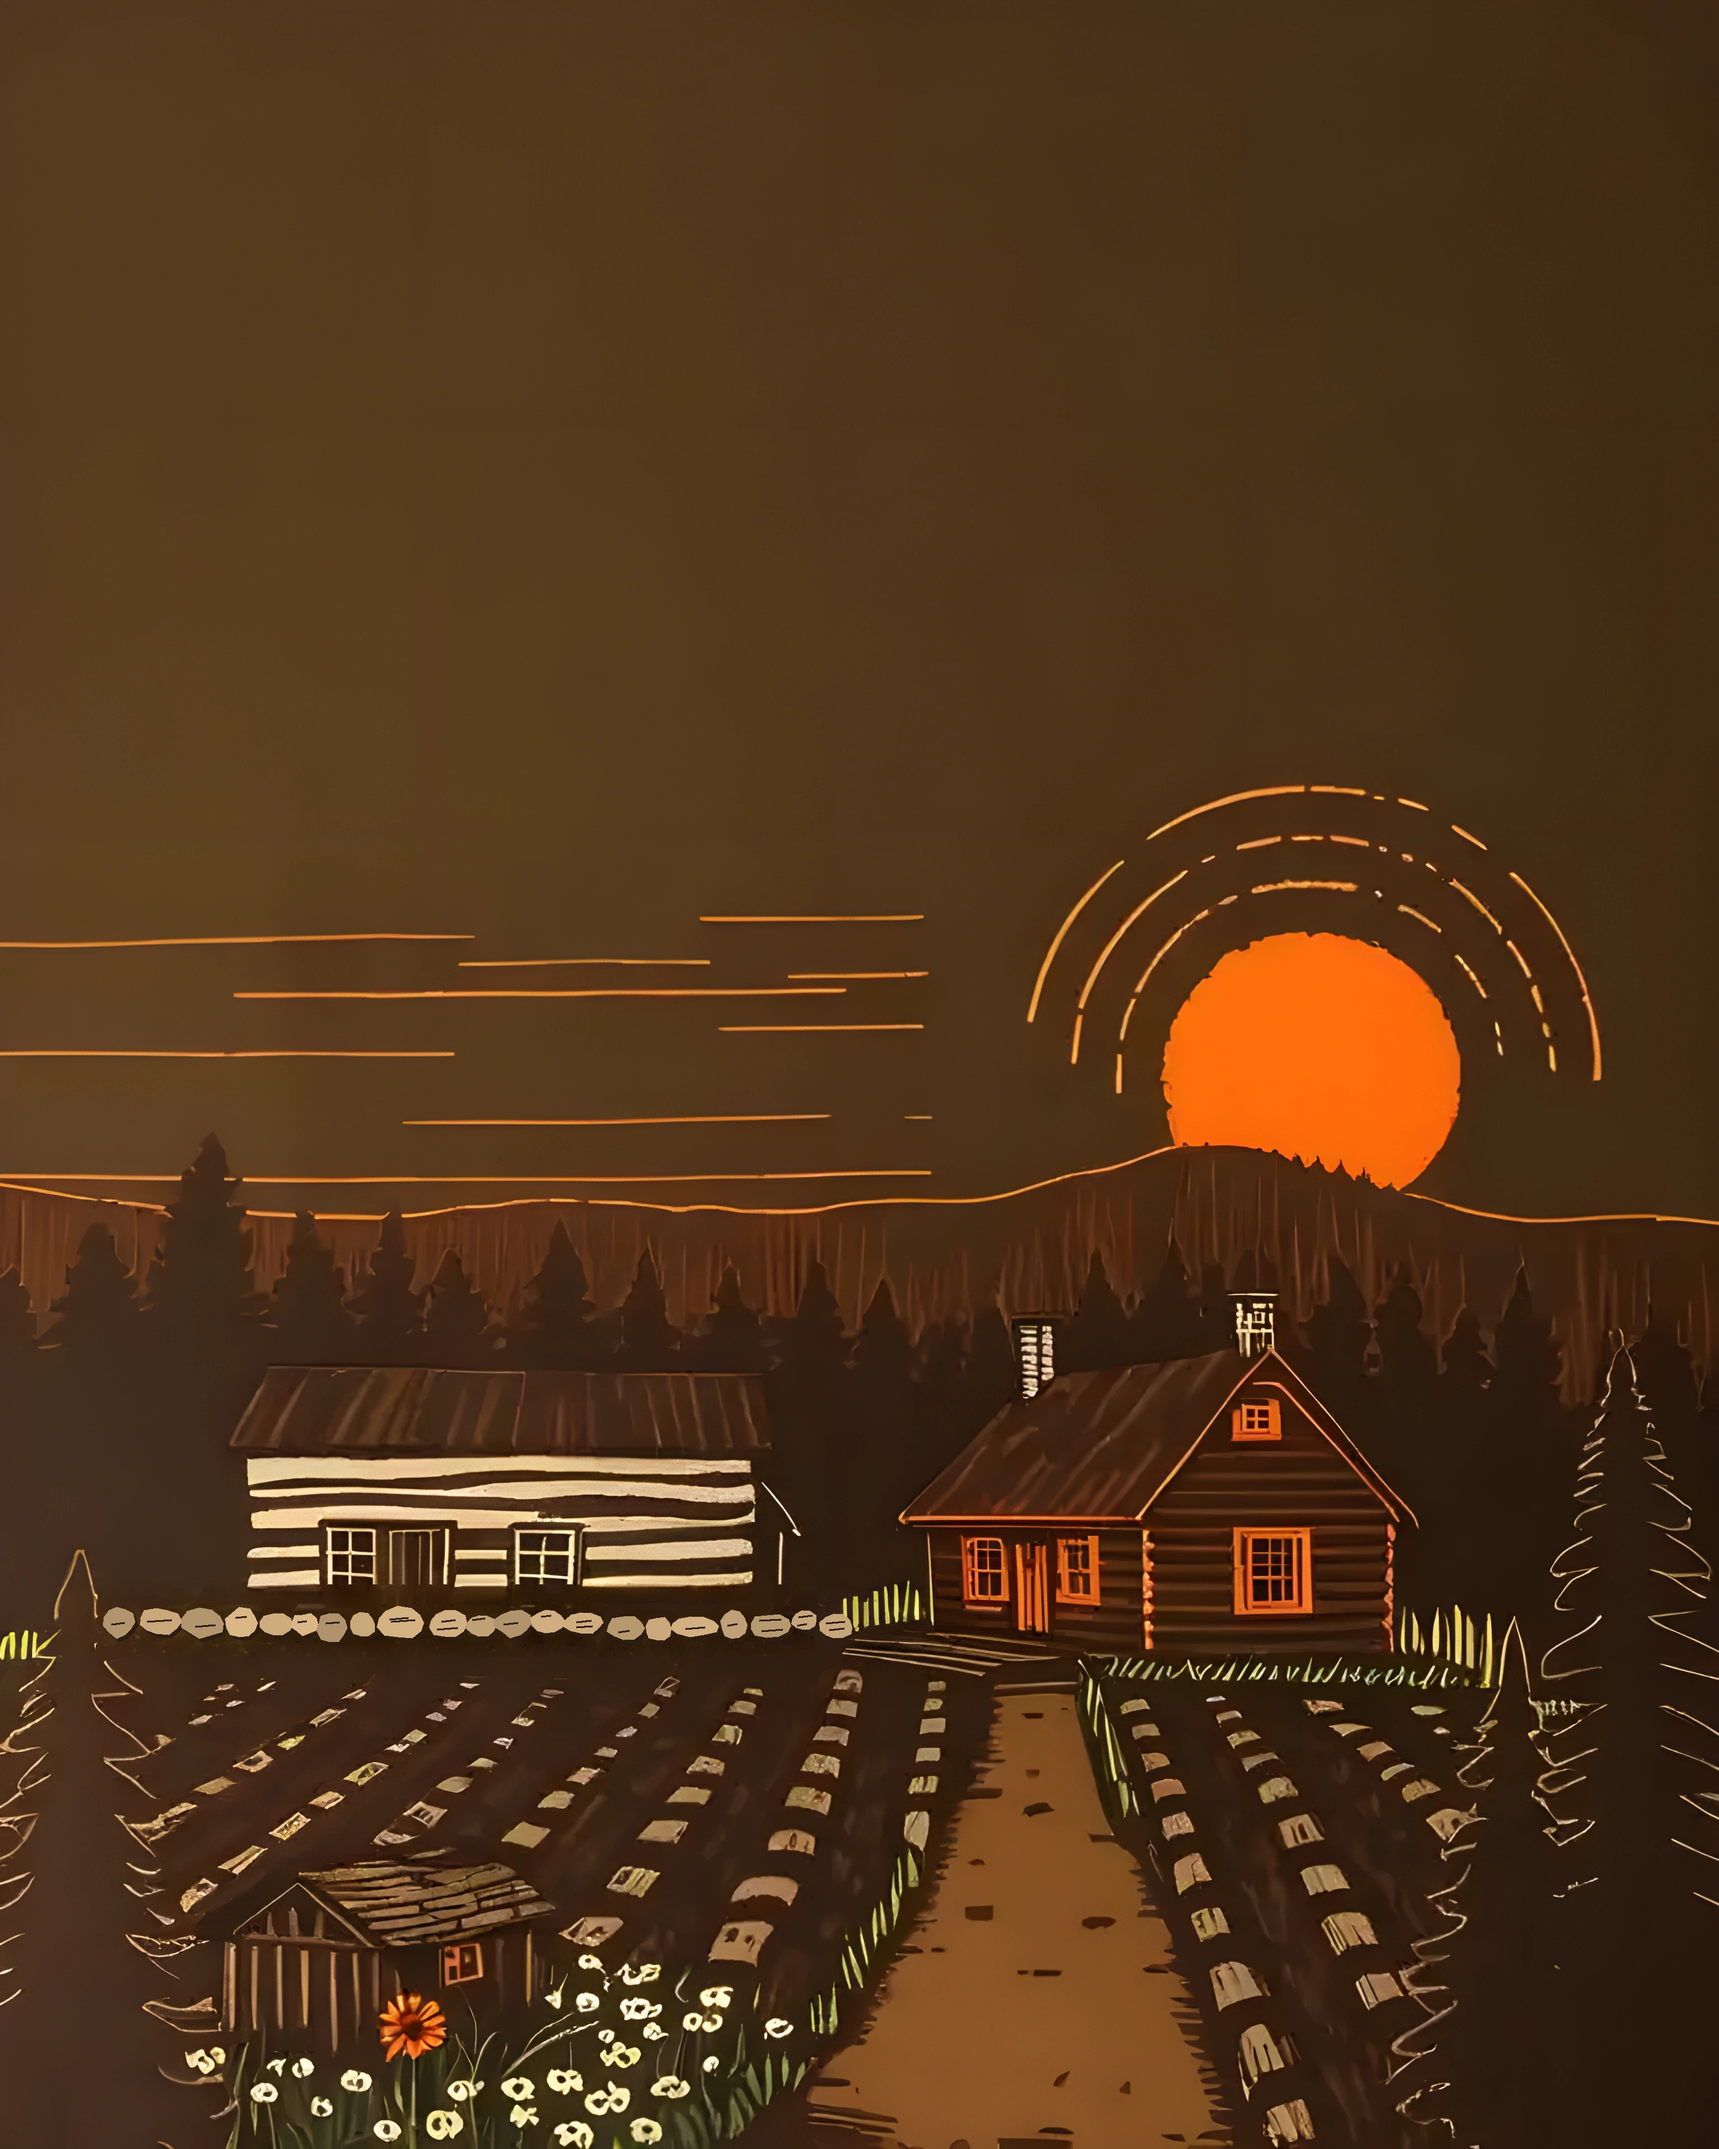
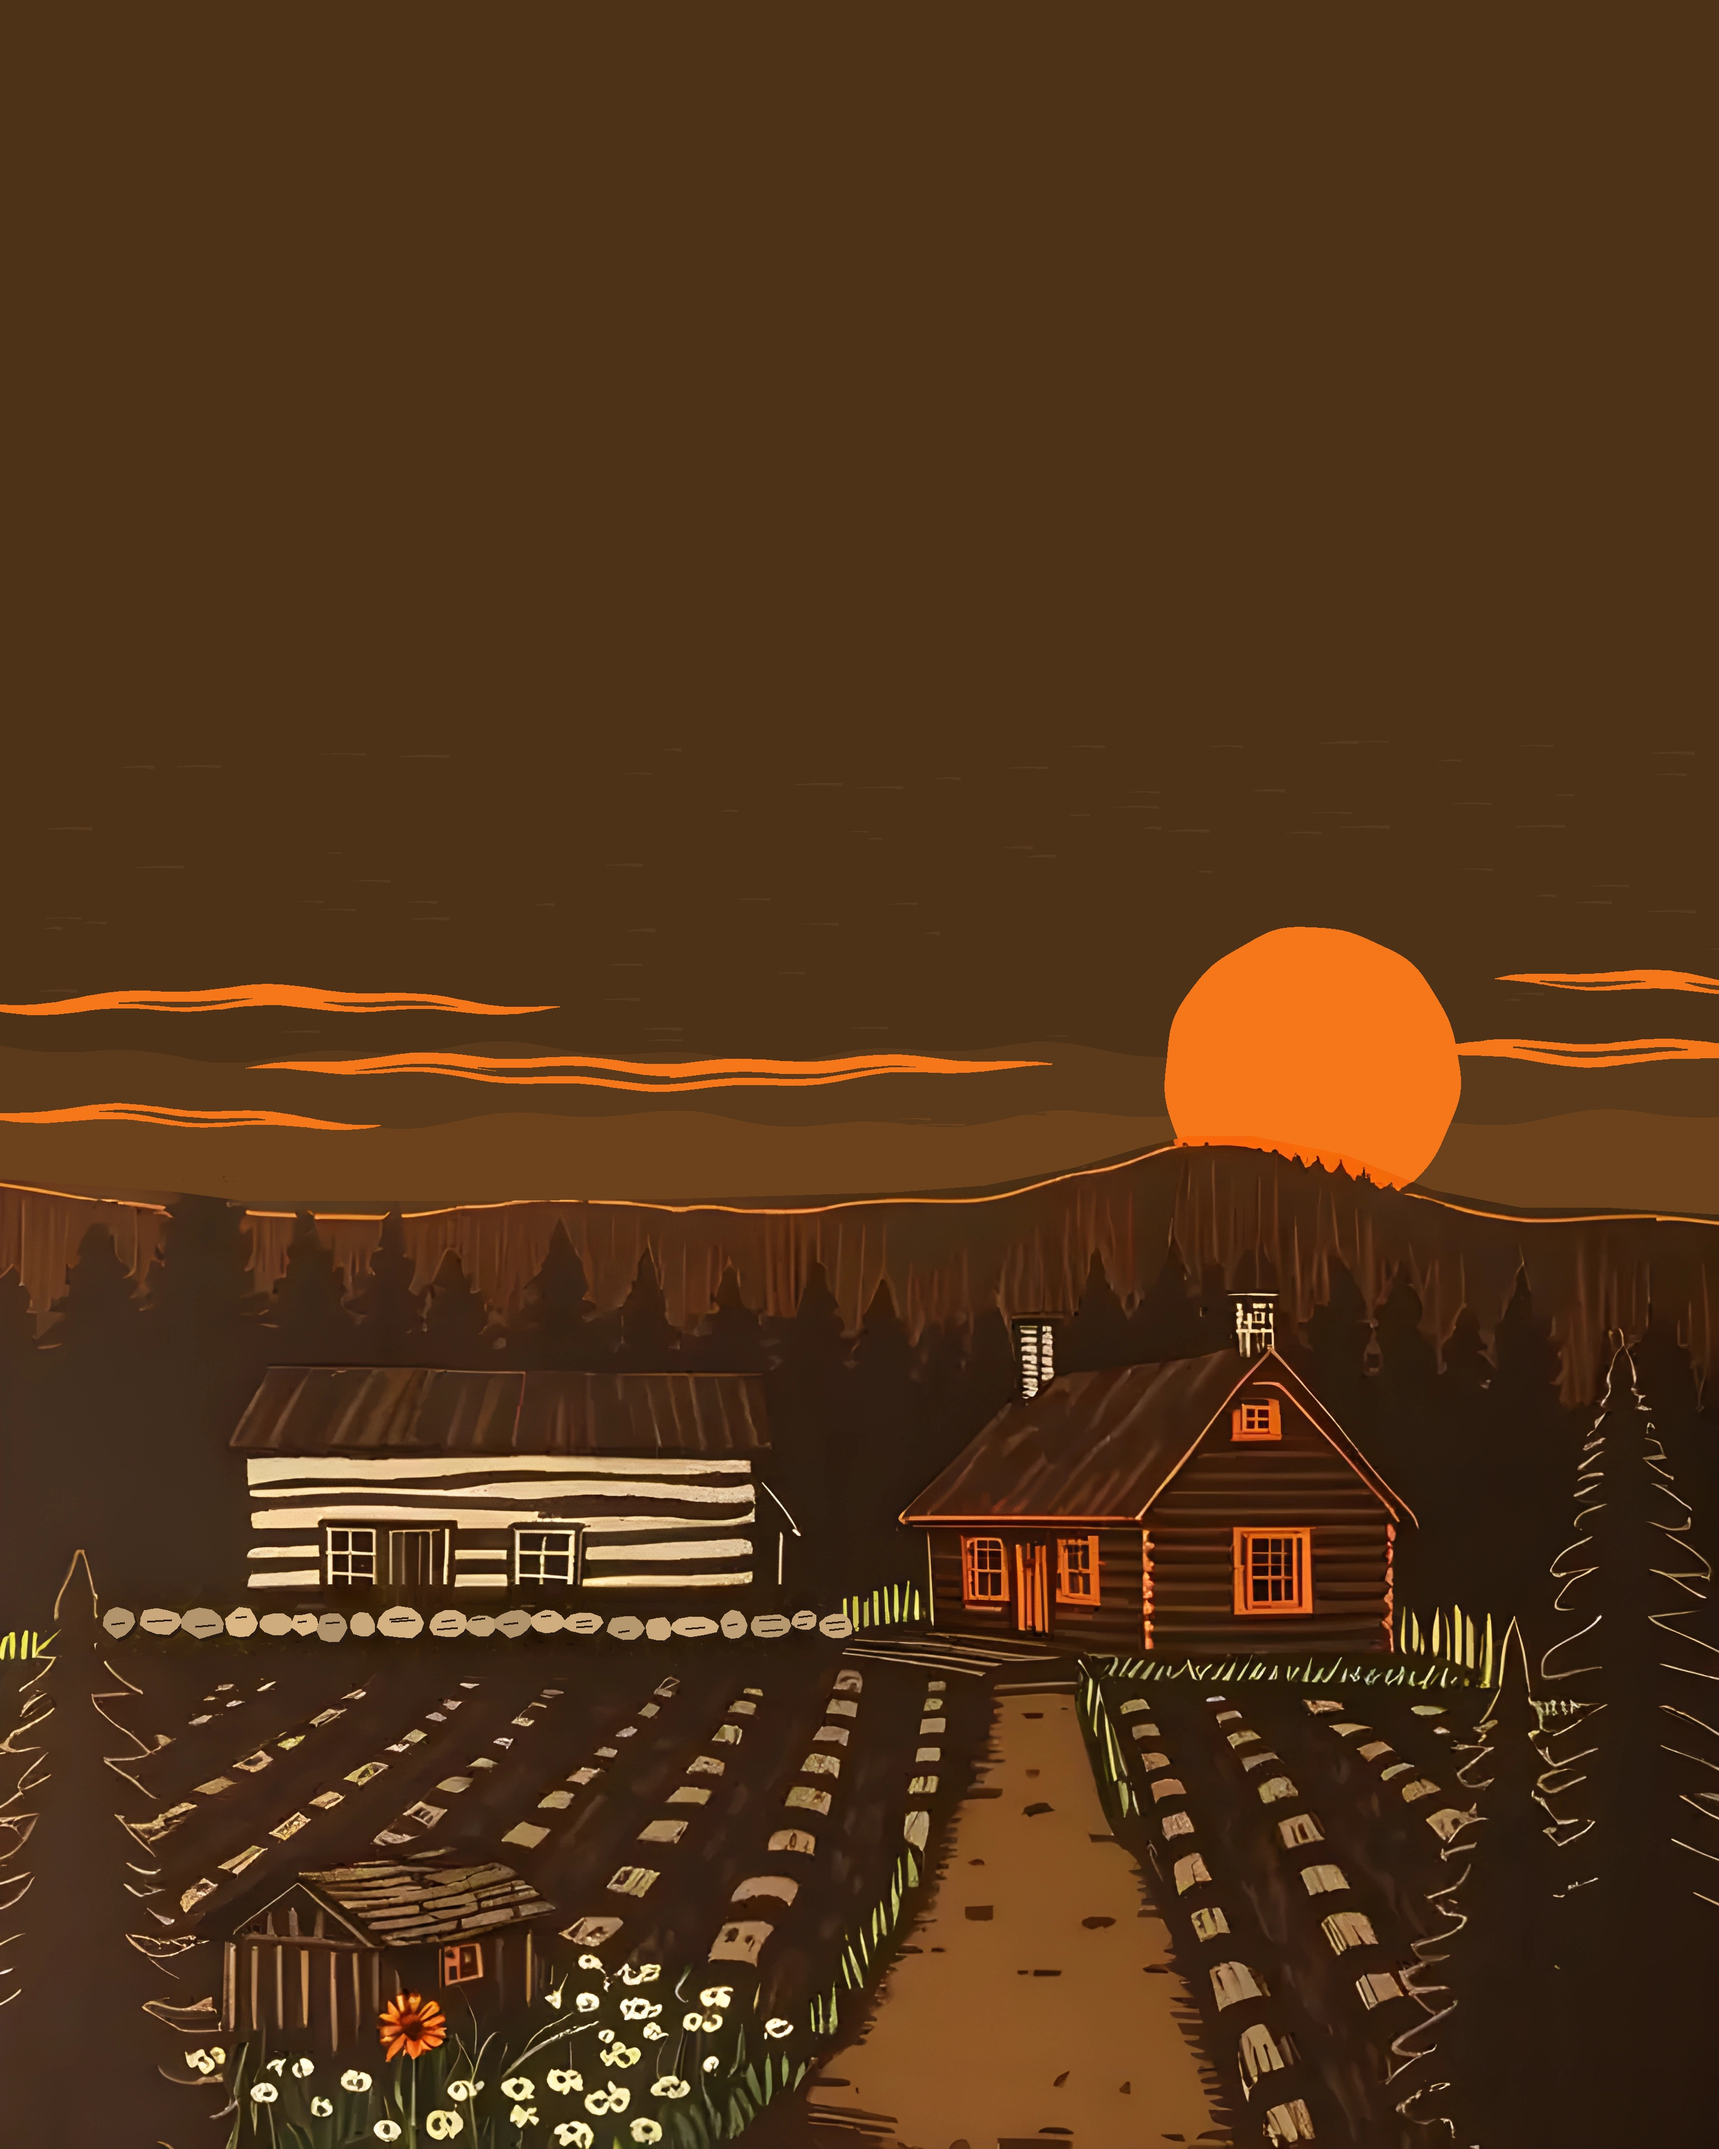
Tome 5 : le ciel regravé avec des bancs de nuages (choix de JP), posé sur la page de titre
Claude-Session: https://claude.ai/code/session_014xDY5FLxFXDJt3nYAYznSZ

diff --git a/images/tomes/essais-ia/tome-5/ete/ciel_ete.py b/images/tomes/essais-ia/tome-5/ete/ciel_ete.py
@@ -57,7 +57,8 @@ if var == 'nuages':
         for j in range(2):                                     # deux entailles dans le nuage, comme à la gouge
             a_, b_ = sorted(R.sample(range(8, 52), 2))
             if b_ - a_ < 10: b_ = min(56, a_ + 14)
-            trait(d, [(px, py + R.uniform(-1.2, 1.2) * e * 0.18) for px, py in pts[a_:b_]], 0, 0, CHAUD1, wmax=e * 0.22)
+            dy = R.uniform(-1, 1) * e * 0.16                   # un décalage pour toute l'entaille : un trait lisse
+            trait(d, [(px, py + dy) for px, py in pts[a_:b_]], 0, 0, CHAUD1, wmax=e * 0.22)
 elif var == 'rayons':
     for i in range(18):
         a = math.radians(180 + i * 10 + R.uniform(-2, 2))

diff --git a/images/credits.md b/images/credits.md
@@ -1114,5 +1114,5 @@ Linogravures générées par le réseau AI Horde à partir d'une image de dépar
 | `images/tomes/titre-tome-2.jpg` | Flux.1-Schnell (img2img 0,66, `s3-F-flux-i66-0`) | Apache 2.0 | halo orange du mur effacé ; points au bout des vapeurs retirés ; griffonnages du mortier et du pilon, mouchetures et fausse étiquette de la bouilloire retirés (`retouche_soin.py`) ; tuyau du poêle, tablette, linge, panier, cruche, chaudière et bûches ajoutés (`ajouts_soin.py`) |
 | `images/tomes/titre-tome-3.jpg` | Juggernaut XL (img2img 0,65) | CreativeML Open RAIL++-M | reflet du soleil regravé en tirets ; canot remonté |
 | `images/tomes/titre-tome-4.jpg` | Flux.1-Schnell (img2img 0,62 sur la version d'été de la candidate 2, `t4e-flux62-1`) | Apache 2.0 | soleil en aplat sans liseré ; reflet regravé en morceaux ; deux bêtes couchées dans l'herbe et un oiseau retirés ; poissons de tailles variées (`ete/retouche_ete.py`) |
-| `images/tomes/titre-tome-5.jpg` | Juggernaut XL (img2img 0,50 sur la version d'été de la candidate 4, `t5e-jug50-1`) | CreativeML Open RAIL++-M | rangée de fausse écriture au pied du bâtiment remplacée par des pierres (`ete/retouche_ete.py`) |
+| `images/tomes/titre-tome-5.jpg` | Juggernaut XL (img2img 0,50 sur la version d'été de la candidate 4, `t5e-jug50-1`) | CreativeML Open RAIL++-M | rangée de fausse écriture au pied du bâtiment remplacée par des pierres (`ete/retouche_ete.py`) ; ciel regravé avec des bancs de nuages (`ete/ciel_ete.py`) |
 | `images/tomes/titre-tome-6.jpg` | Flux.1-Schnell (img2img 0,88, `t6-fA88-1`) | Apache 2.0 | croissant de lune déplacé hors du titre ; intérieur de l'atelier redessiné (`retouche_atelier.py`) |

diff --git a/livre/apercus-titre-t5/rapport.md b/livre/apercus-titre-t5/rapport.md
@@ -1,7 +1,7 @@
 # Tome 5 · La forêt, le jardin et le chalet — rapport d'assemblage
 
-- **Produit le :** 2026-10-18 21:32, par `design/outils/assembler-tome.py 5 --chapitres 82 --hors-ligne --sortie livre/apercus-titre-t5`
-- **Fichier :** `livre/tome-5/interieur.pdf` — 24 pages, 9.3 Mo
+- **Produit le :** 2026-10-18 21:52, par `design/outils/assembler-tome.py 5 --chapitres 82 --hors-ligne --sortie livre/apercus-titre-t5`
+- **Fichier :** `livre/tome-5/interieur.pdf` — 24 pages, 9.0 Mo
 - **Ouvertures :** au recto ou au verso (--verso)
 - **Placements :** design/epreuves-livre/placements.json, design/epreuves-livre/placements-tome-5.json
 - **Exigences de Blurb :** `sources/blurb-specifications.md` (relevées le 27 septembre 2026)
@@ -28,7 +28,7 @@ Aucune page de crédits (JP, 28 septembre 2026) : copie hors du livre dans `livr
 | Nombre de pages | pair, de 20 à 440 (papier Standard) | 24 | oui |
 | Page 1 | à droite | ouverture du chapitre 00 | oui |
 | Polices incorporées | toutes | 18 police(s), 0 non incorporée(s) | oui |
-| Taille du fichier | 2 Go au plus | 9.3 Mo | oui |
+| Taille du fichier | 2 Go au plus | 9.0 Mo | oui |
 | Marques d'imprimeur | aucune | aucune | oui |
 | Couleur | CMJN ou sRVB, sans ton direct | sRVB (Edge) | oui |
 | Noir du texte | 100 % K | noir sRVB (0, 0, 0) : la conversion est faite chez Blurb | à juger sur épreuve |

diff --git a/images/tomes/essais-ia/tome-5/ete/LISEZMOI.md b/images/tomes/essais-ia/tome-5/ete/LISEZMOI.md
@@ -4,6 +4,12 @@
 au pied du bâtiment de gauche, la rangée de fausse écriture devient une rangée de pierres taillées à la main.
 Résultat : `images/tomes/titre-tome-5.jpg`.
 
+Puis le ciel (JP : « tome 5, retravaille le ciel », puis « 2, nuages ») : `ciel_ete.py VARIANTE` le regrave au-dessus
+de la crête de la colline, relevée à la main. Trois variantes sur `tome-5-ciels.png` (calme, nuages, rayons) ; JP
+prend **nuages** : le ciel uni, deux bandes plus chaudes au ras des collines, cinq bancs de nuages orange effilés de
+part et d'autre du soleil, chacun avec deux entailles de gouge, et le soleil en aplat au bord coupé à la main. Chaîne :
+`retouche_ete.py t5e-jug50-1-x4.png` puis `ciel_ete.py … nuages`.
+
 JP, sur la candidate 4 retouchée : « tome 5, faut que ça soit l'été ». Les taches blanches (le sentier, les buttes des
 rangs, le bas) se lisaient comme de la neige. Image de départ `t5-depart-ete.png` : la 4 retouchée (`../retouche_jardin.py`),
 le sentier et les grandes plaques en terre brune avec de l'herbe sur les bords, les buttes en plants. Puis AI Horde en

diff --git a/livre/apercus-titre-t5/credits/tome-5-credits.md b/livre/apercus-titre-t5/credits/tome-5-credits.md
@@ -3,7 +3,7 @@
 **Ne s'imprime pas.** JP, 28 septembre 2026 : « enlève les pages crédit photo, garde les backup quelque part mais pas dans le livre ». Aucune page de crédits dans `livre/tome-5/interieur.pdf`, rien au sommaire.
 
 - **Tiré de :** `images/credits.md` et `images/photos/registre-*.md` (les registres restent la référence)
-- **Par :** `design/outils/assembler-tome.py 5`, le 2026-10-18 21:32, tome de 24 pages
+- **Par :** `design/outils/assembler-tome.py 5`, le 2026-10-18 21:52, tome de 24 pages
 - **Même contenu, lisible à l'écran :** `livre/apercus-titre-t5/credits/tome-5-credits.pdf`
 - **Page :** celle du tome où l'image s'imprime ; elle change à chaque assemblage.
 
